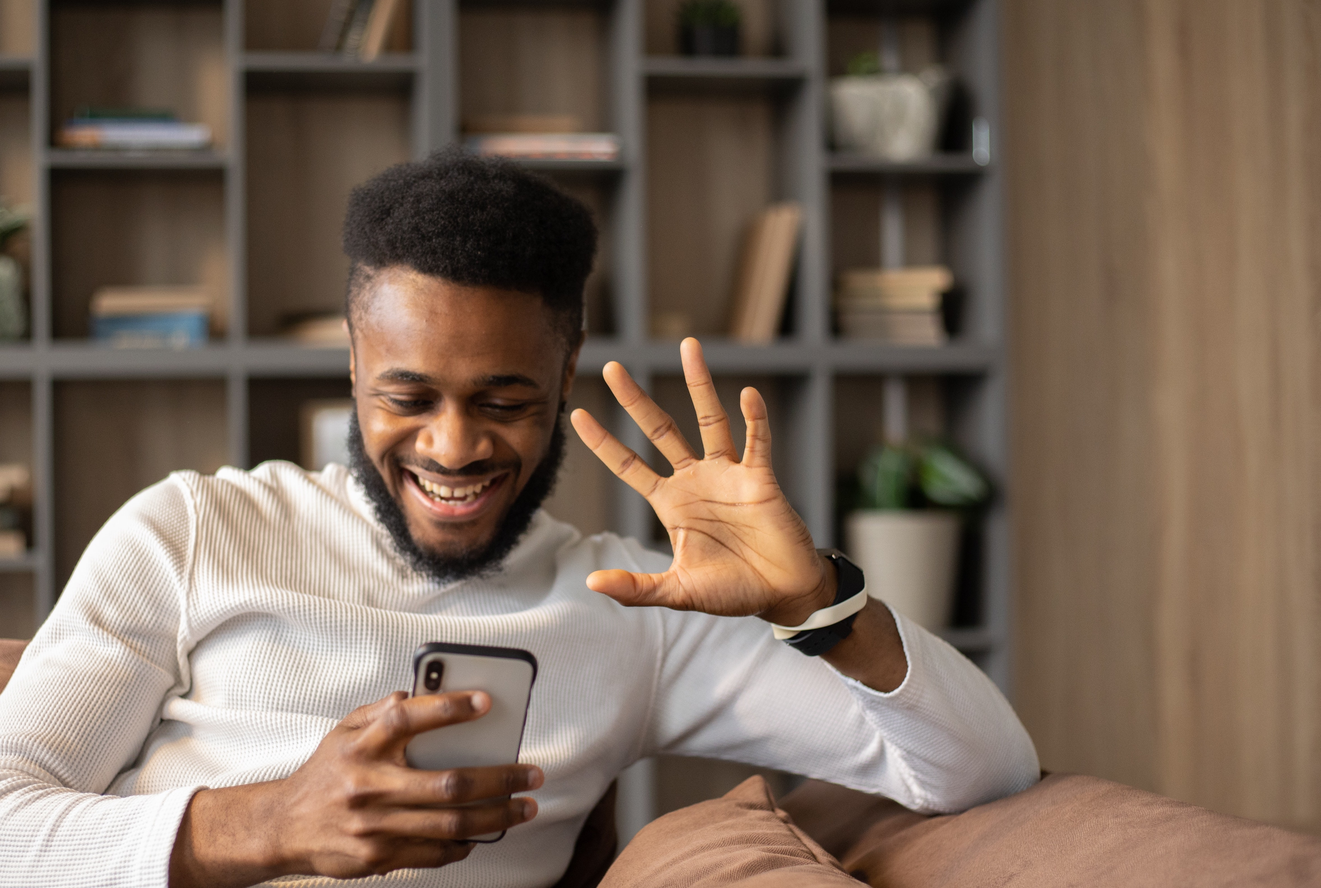
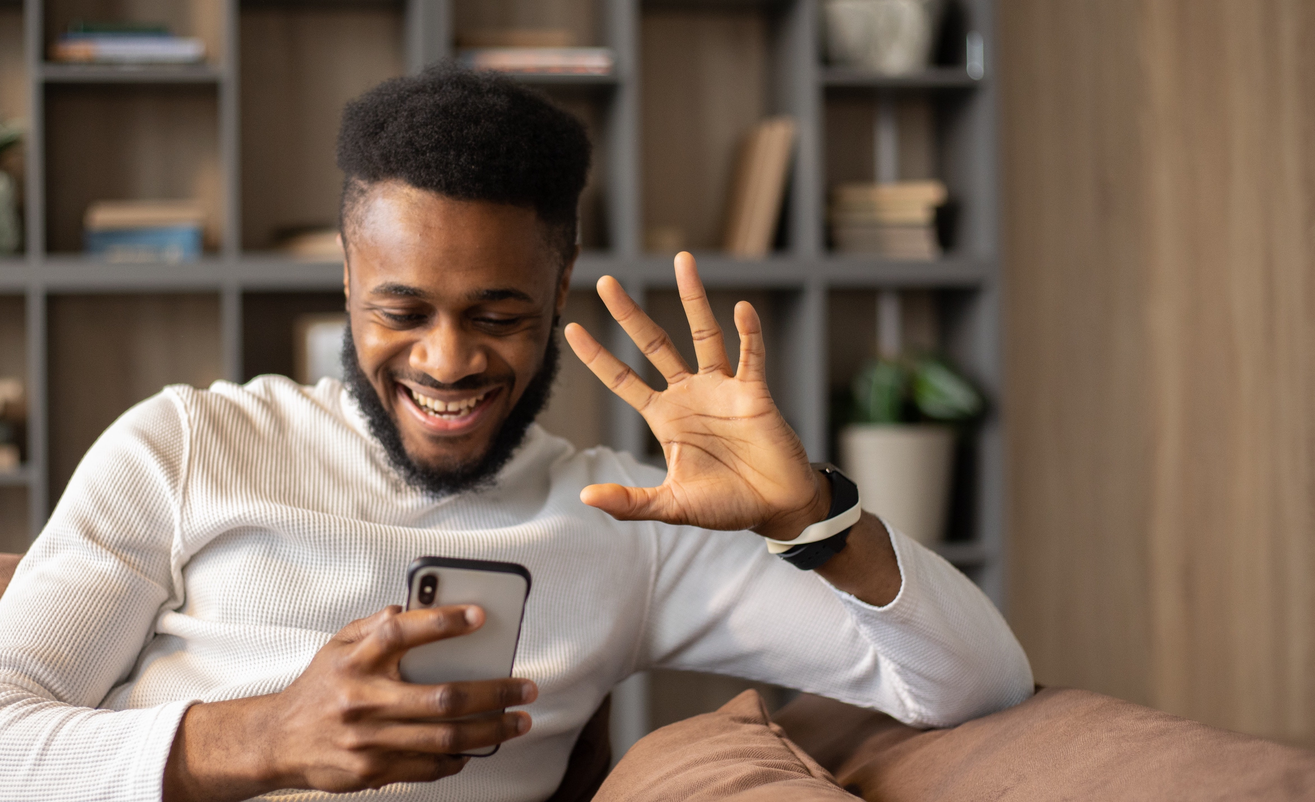
Add further progress of mockup

diff --git a/assets/styles/main.css b/assets/styles/main.css
@@ -22,28 +22,39 @@ header {
 }
 
 .hero-banner {
-  background: url("/assets/img/man-waving-on-video-call.jpg") no-repeat center -80px;
-  background-size: 100%;
+  background: url("/assets/img/man-waving-on-video-call.jpg") no-repeat -64px -80px;
+  background-size: auto 100%;
   min-height: 300px;
-  height: 730px;
+  height: 566px;
   margin-bottom: 184px;
 }
 
 .hero-banner h1 {
+  background-color: #fff;
   color: #03ABFF;
-  font-size: 48px;
+  font-size: 40px;
   font-weight: 600;
   margin: 0 40px;
+  padding: 8px;
 }
 
-.hero-banner p {
+.hero-content {
+  margin-top: 272px;
+}
+
+.hero-content .rounded-blue-button {
+  margin: 24px 40px;
+}
+
+.hero-content p {
   background: #fff;
+  box-sizing: border-box;
   color: #797979;
   box-sizing: border-box;
   font-size: 20px;
   line-height: 2;
-  padding: 40px 200px 40px 40px;
-  width: 660px;
+  margin: 0 40px;
+  min-width: 300px;
 }
 
 .rounded-blue-button {
@@ -57,13 +68,27 @@ header {
 }
 
 .left-anchored-section {
-  background-size: 100%;
   min-height: 300px;
   height: 730px;
-  margin-bottom: 184px;
+  margin: 400px auto;
+  display: inline-block;
 }
 
-.left-anchored-section h3, .centered-section h3 {
+.left-anchored-section .section-content {
+  display: inline-block;
+  flex: 1;
+  margin: 40px;
+  max-width: 480px;
+  vertical-align: top;
+}
+
+.left-anchored-section .img-container {
+  flex: 1; width: 40%; min-width: 300px; max-width: 650px;
+  margin: 0 auto;
+}
+
+.left-anchored-section h3,
+.centered-section h3 {
   color: #03ABFF;
   font-size: 36px;
   font-weight: 500;
@@ -74,15 +99,14 @@ header {
   box-sizing: border-box;
   font-size: 20px;
   line-height: 2;
-  width: 660px;
+  width: 100%;
 }
 
 .centered-section {
   margin: 0 auto;
   text-align: center;
-  min-height: 300px;
-  height: 730px;
-  margin-bottom: 240px;
+  min-height: 730px;
+  margin-bottom: 40px;
 }
 
 ul.features-list {
@@ -104,26 +128,142 @@ ul.features-list hr {
   text-align: center;
   min-height: 300px;
   height: 560;
-  margin: 360px auto 120px auto;
+  margin: 0px auto 80px auto;
 }
 
 .three-section {
-  display: inline-block;
-  width: 30%;
-  margin: 0 1.5%;
+  display: block;
+  width: 100%;
+  margin: 0;
+  padding: 40px;
   line-height: 2;
   text-align: left;
-  vertical-align: top;
   color: #797979;
   font-size: 20px;
+  box-sizing: border-box;
 }
 
-.three-section h3, .footer-section h3 {
+.three-section h3,
+.footer-section h3 {
   color: #03ABFF;
   font-size: 36px;
   font-weight: 600;
   line-height: 1.2;
 }
+
+/* @media (min-width: 1240px) { */
+@media (min-width: 800px) {
+  .hero-banner {
+    background: url("/assets/img/man-waving-on-video-call.jpg") no-repeat center -80px;
+    background-size: 100%;
+    height: 730px;
+    margin-bottom: 184px;
+  }
+
+  .hero-banner h1 {
+    background-color: transparent;
+    color: #03ABFF;
+    font-size: 48px;
+    padding: 0;
+  }
+
+  .hero-content {
+    margin-top: 0;
+    float: right;
+  }
+
+  .rounded-blue-button {
+    font-size: 18px;
+    outline: 0;
+    padding: 12px 36px;
+  }
+  
+  .hero-content .rounded-blue-button {
+    margin: 24px 40px 28px 40px;
+  }
+  
+  .hero-content p {
+    font-size: 20px;
+    line-height: 2;
+    margin: 0;
+    padding: 40px 200px 40px 40px;
+    width: 660px;
+  }
+
+  .left-anchored-section {
+    display: flex;
+    flex-direction: row-reverse;
+    min-height: 300px;
+    height: 730px;
+    margin: 0 0 120px 0;
+    justify-content: flex-end;
+  }
+
+  .left-anchored-section .img-container {
+    flex: 1; width: 40%; min-width: 300px; max-width: 650px;
+    margin: 0;
+  }
+
+  .left-anchored-section .section-content {
+    margin: 40px 120px 40px 40px;
+    width: 660px;
+  }
+
+  .left-anchored-section h3,
+  .centered-section h3 {
+    font-size: 36px;
+    font-weight: 500;
+  }
+
+  .left-anchored-section p {
+    font-size: 20px;
+    line-height: 2;
+  }
+
+  .centered-section {
+    min-height: 300px;
+    height: 730px;
+    margin-bottom: 40px;
+  }
+
+  ul.features-list {
+    margin-left: 0;
+    padding: 0 16px;
+    font-size: 20px;
+  }
+
+  ul.features-list hr {
+    height: 1px;
+    margin: 18px 0;
+    opacity: 0.8;
+  }
+
+  .three-part-section {
+    min-height: 300px;
+    height: 560;
+    margin: 300px auto 120px auto;
+  }
+
+  .three-section {
+    display: inline-block;
+    width: 30%;
+    margin: 0 1.5%;
+    line-height: 2;
+    text-align: left;
+    font-size: 20px;
+    vertical-align: top;
+  }
+
+  .three-section h3,
+  .footer-section h3 {
+    font-size: 36px;
+    font-weight: 600;
+    line-height: 1.2;
+  }
+}
+
+
+
 
 .fixed-top-notice {
   background: #59A7FD;

diff --git a/_pages/mockup.md b/_pages/mockup.md
@@ -10,9 +10,9 @@ permalink: /mockup
       <img src="/assets/img/logos/Lux-Health-logo.png" alt="Lux Health logo">
     </a>
     <div>
-      <div style="float: right;">
+      <div class="hero-content">
         <h1>#1 Unified <br />Software Solution for  <br />Concierge Medical <br />Practices</h1>
-        <button class="rounded-blue-button" style="margin: 24px 40px 28px 40px;">Get Started</button>
+        <button class="rounded-blue-button">Get Started</button>
         <p>
           At Lux Health, we believe healthcare IT software should be high-quality and clear.
           <br /><br />
@@ -23,7 +23,10 @@ permalink: /mockup
   </section>
 
   <section class="left-anchored-section">
-    <div style="display: inline-block; width: 660px; margin: 40px; vertical-align: top;">
+    <div class="img-container">
+      <img src="/assets/img/stethoscope-with-heart.jpg" alt="Lux Health helps you focus on care and healing." width="100%">
+    </div>
+    <div class="section-content">
       <img src="/assets/img/Lux-Health-heart.png" alt="Lux Health wants to de-risk your practice." />
       <h3>Zero Upfront: <br />We get paid, when <br />you get paid.</h3>
       <p>
@@ -32,17 +35,12 @@ permalink: /mockup
         Whether you want to continue with your billing system or leverage Lux Health's automated, full-service billing and clearinghouse, we only take a percentage on <u>successful</u> reimbursement, collection, or payments.
       </p>
     </div>
-    <a href="/" style="display: inline-block; width: 40%;">
-      <img src="/assets/img/stethoscope-with-heart.jpg" alt="Lux Health helps you focus on care and healing." width="100%">
-    </a>
   </section>
 
-
-
   <section class="centered-section">
-    <a href="/" style="display: inline-block; width: 30%;">
+    <div style="display: inline-block; width: 30%; min-width: 300px;">
       <img src="/assets/img/physician-caring-for-patient.jpg" alt="Lux Health helps you focus on care and healing." width="100%">
-    </a>
+    </div>
     <div style="display: inline-block; margin: 40px; vertical-align: top; text-align: left;">
       <img src="/assets/img/Lux-Health-heart.png" alt="Lux Health cares" />
       <h3>What We Offer: <br />Software Suite Built for <br />Your Workflow <br />(Not Web-Based)</h3>
